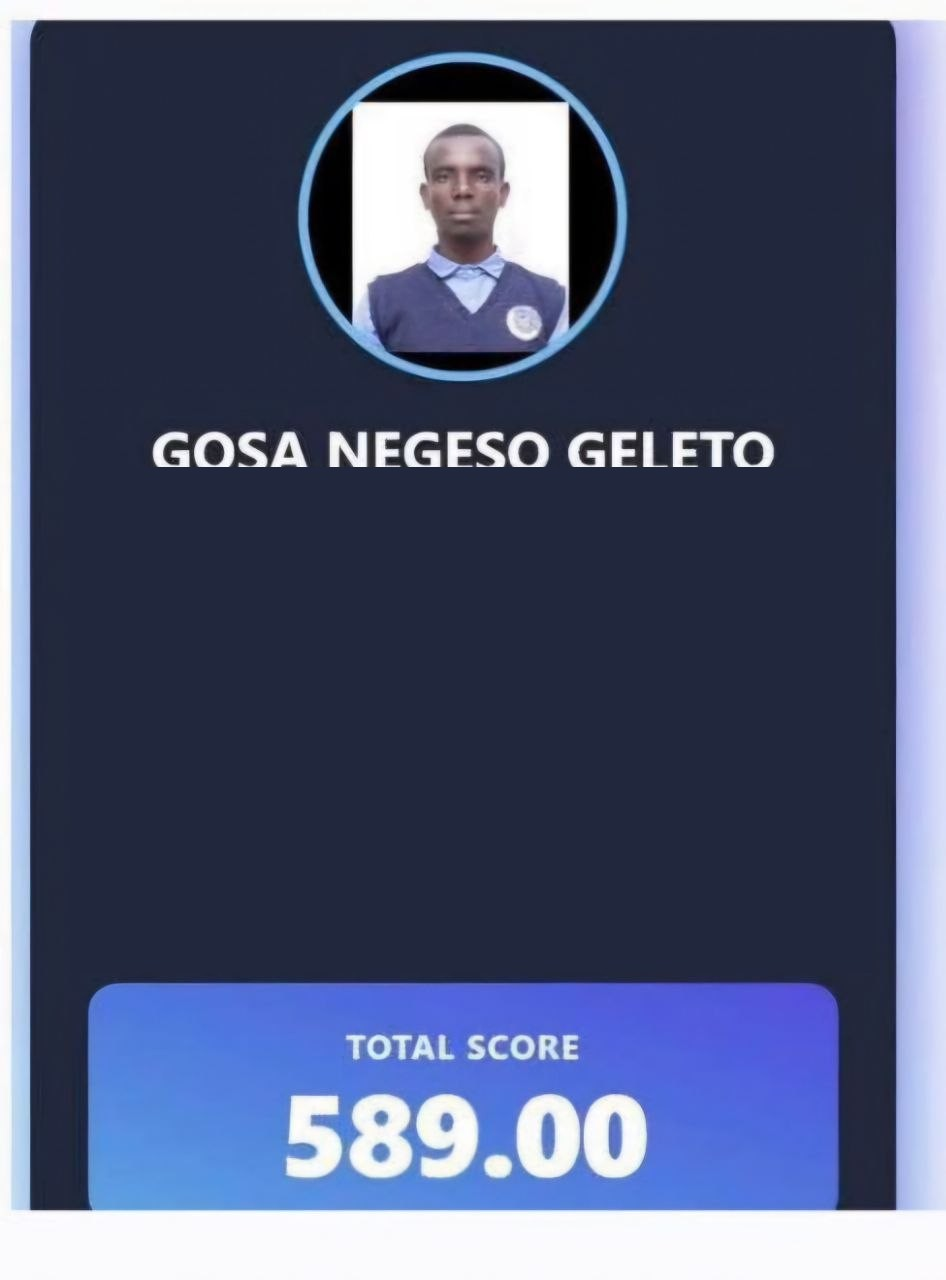
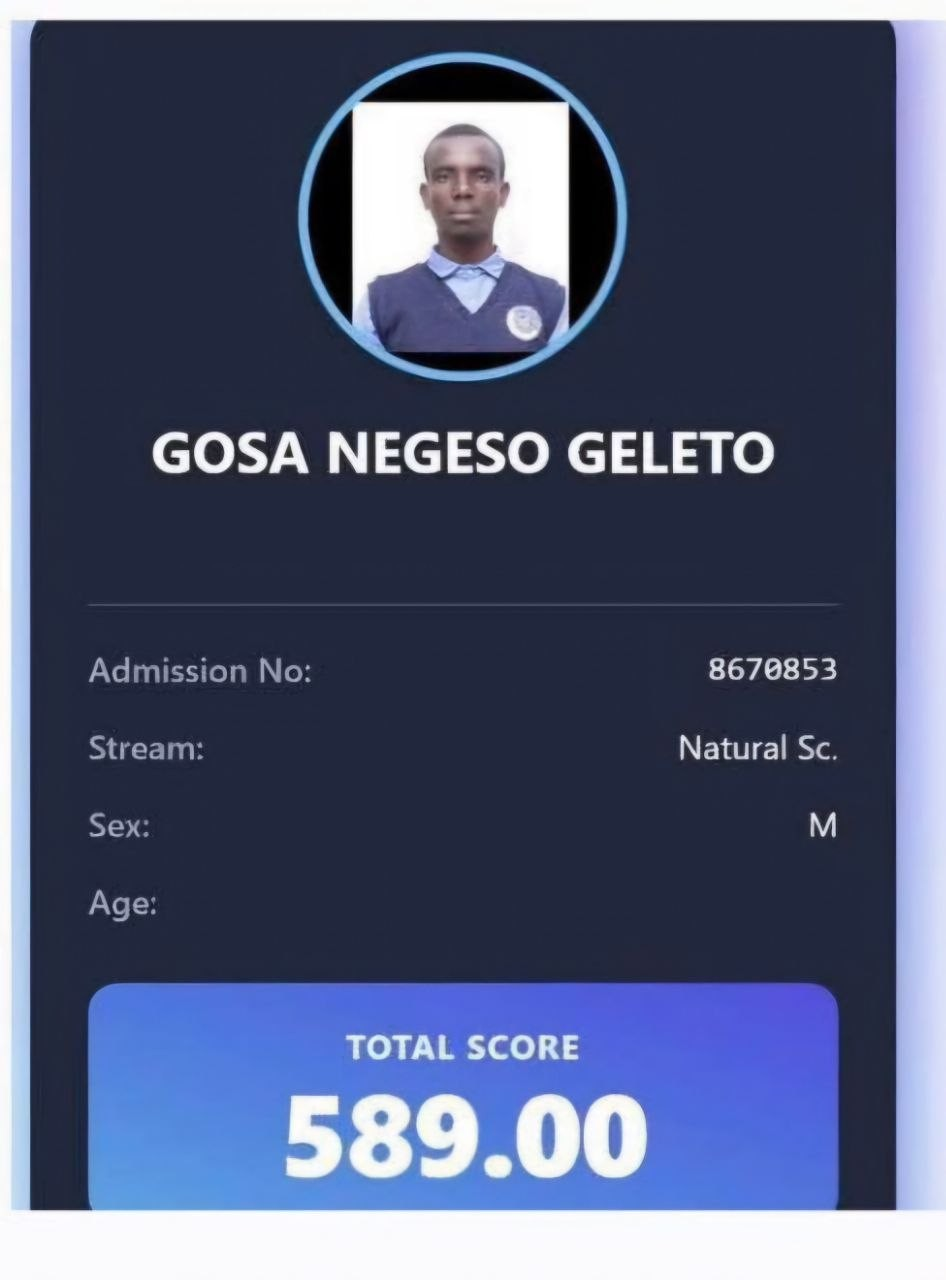
Show approved Gosa details in result image

diff --git a/apps/web/components/GoalPlanner.tsx b/apps/web/components/GoalPlanner.tsx
@@ -99,7 +99,7 @@ export function GoalPlanner() {
           <section aria-labelledby="gosa-testimonial-title" className="mt-4 overflow-hidden rounded-3xl border border-border bg-gradient-to-br from-[#102b44] via-[#132f4c] to-[#0b243a] p-4 text-white shadow-lg sm:p-5">
             <div className="flex flex-wrap items-center justify-between gap-2"><p className="text-xs font-black uppercase tracking-[.16em] text-cyan-200">Student testimony</p><span className="rounded-full border border-white/15 bg-white/10 px-2.5 py-1 text-[10px] font-bold text-white/75">Shared with permission</span></div>
             <div className="mt-4 grid items-center gap-4 sm:grid-cols-[150px_1fr]">
-              <img src="/images/gosa-negeso-geletto-result.jpg" alt="Gosa Negeso Geletto’s result card showing his photo, name, and score of 589" className="mx-auto max-h-56 w-auto rounded-xl border border-white/15 object-contain shadow-md sm:mx-0" />
+              <img src="/images/gosa-negeso-geletto-result.jpg" alt="Gosa Negeso Geletto’s result card showing his photo, name, score of 589, admission number, Natural Science stream, and sex" className="mx-auto max-h-56 w-auto rounded-xl border border-white/15 object-contain shadow-md sm:mx-0" />
               <div><h2 id="gosa-testimonial-title" className="text-lg font-black leading-tight sm:text-xl">GOSA NEGESO GELETTO</h2><p className="mt-1 text-sm font-semibold text-cyan-200">Result shared: 589 / 600</p><dl className="mt-3 grid grid-cols-[auto_1fr] gap-x-3 gap-y-1.5 text-xs leading-5 text-white/75"><dt className="font-bold text-white/55">Admission No.</dt><dd>870853</dd><dt className="font-bold text-white/55">Stream</dt><dd>Natural Science</dd><dt className="font-bold text-white/55">Sex</dt><dd>M</dd></dl><blockquote className="mt-3 rounded-xl border-l-2 border-cyan-200 bg-white/[0.06] p-3 text-sm leading-6 text-white/85">“As a student who recently prepared for the Grade 12 national exam, I know how important it is to have good study materials. I had a chance to review Deborah, and I like the idea of having practice questions and learning resources in one place. I think Deborah has great potential to help students prepare better.”</blockquote><p className="mt-2 text-xs font-bold text-cyan-100">— Gosa Negeso Geletto</p><p className="mt-3 text-xs leading-5 text-white/60">School information is omitted from this public spotlight.</p></div>
             </div>
           </section>
